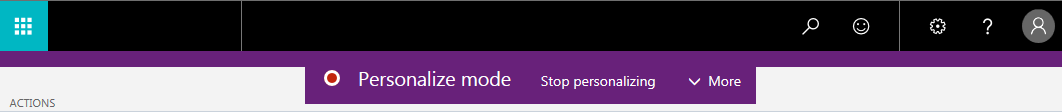
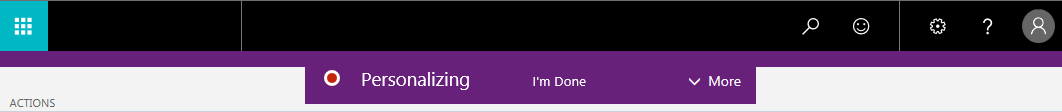
updated to latest

Changed region(s): [[0.3107, 0.6429, 0.6215, 0.8036]]

diff --git a/financials/ui-personalize-user-interface.md b/financials/ui-personalize-user-interface.md
@@ -26,16 +26,17 @@ Depending on the type of page and what it includes, you can:
 -   Change the freeze pane of columns in a list. 
 
     The freeze pane defines the columns that always appear in the list, even when you scroll horizontally.
--   Move and remove parts.
+-   Add, move, and remove cues (tiles).
+-   Move and remove entire parts.
 
-    Parts are typically larger areas on a page that contain elements such as another page, a chart, or cues (tiles).  
+    Parts are typically larger areas on a page that contain elements such as another page, a chart, or tiles.  
 
 ## Personalization in detail
-To help you better understand personalization, here are some important points.  
+To help you better understand personalization, here are some pointers.  
 -   When you make changes to a card page of record that you open from a list, the changes will take effect on all records that you open from that list. For example, let's say you open a specific customer from the Customers list page, and then personalize the page by adding a field. When you open other customers from the list, the field that you added will also be shown.
 -   Changes that you make will take effect on all your Role Centers. For example, if you make a change to the Customer list when the Role Center is set to Business Manager, you will also see the change in the Customer list when Role Center is set to Sales Order Processor. 
 -   Changes to a page in a part will take effect where ever the part is used.  
--   You cannot create new fields or columns on a page; you can only add fields that already exist in the database.
+-   You can only add fields, columns, or tiles from a predetirmend list based on the page. You cannot create new ones.
 
 <!--NAV
 
@@ -43,9 +44,9 @@ To help you better understand personalization, here are some important points.
 
 ## To personalize a page
 
-1. Choose the ![Settings](media/ui-experience/settings_icon_small.png "Settings icon for role center") icon, and then choose **Personalize**.
+1. In the upper-right corner, select the ![Settings](media/ui-experience/settings_icon_small.png "Settings icon for role center") icon, and then **Personalize**.
 
-    The **Personalize Mode** bar appears at the top to indicate that you can start making changes. 
+    The **Personalizing** bar appears at the top to indicate that you can start making changes. 
 
     ![Personalize mode](media/ui_personalize_mode.png "Personalize mode")
 
@@ -62,19 +63,19 @@ To help you better understand personalization, here are some important points.
 4.  Use this table to help make changes:
         <table>
         <tr><th>What do you want to do</td><th>How to do it</th></tr>
-        <tr><td>Move the component, like a field, column in list, or part</td><td> Drag it by the arrowhead to its new location. The target location is indicated by either a thick horizontal or vertical line.</td></tr>
+        <tr><td>Move the component, like a field, column in list, tile, or part</td><td> Point anywhere on component, and drag it to its new location. The location is indicated by either a thick horizontal or vertical line.</td></tr>
         <tr><td>Remove the component</td><td>Select the arrowhead, and choose <b>Remove</b>.</td></tr>
         <tr><td>Change the freeze pane in a list to another column</td><td>Select the arrowhead of the column that you want as the last column of the freeze pane, and then choose <b>Set Freeze Pane</b>.<br /></br>If you do not want a freeze pane, select the arrowhead for the current freeze pane column, and choose <b>Clear Freeze Pane</b>.</td></tr>
-        <tr><td>Add a field</td><td>In the <b>Personalize Mode</b> bar, choose <b>More</b>, and then choose <b>Field</b>.<br /></br>The <b>Add Field to Page</b> pane opens on the right that lists the fields that you can add to the page. Fields marked as <b>Placed</b> are already on the page. Fields marked as <b>Ready</b> are not currently on the page.<br /></br>To add a field, drag it from the pane to the location that you want it.</td></tr>
+        <tr><td>Add a field, column, or tile</td><td>In the <b>Personalizing</b> bar, choose <b>More</b>, and then choose <b>Field</b>.<br /></br>The <b>Add Field to Page</b> pane opens on the right that lists the fields that you can add to the page. Fields marked as <b>Placed</b> are already on the page. Fields marked as <b>Ready</b> are not currently on the page.<br /></br>To add a field, drag it from the pane to the location that you want it. The location is indicated by either a thick horizontal or vertical line.</td></tr>
         </table>
     
     > [!IMPORTANT]  
     >   You cannot make changes to a list if the list is shown as tiles. To change the view, choose the ![Show as list](media/ui_show_as_list_icon.png "Show as list arrow left") icon.
    
-5.  You can continue to make changes on the same page or move to another page. When you are done, in the **Personalize Mode** bar, choose **Stop personalizing** to save the changes and exit the **Personalize Mode**. 
+5.  You can continue to make changes on the same page or move to another page. Your changes are automatically saved as you make them. When you are done, in the **Personalizing** bar, choose **I'm Done**. 
 
-## To restore pages to their original layout
-At some point, you might want to undo all the personalization changes that you have made over time so that pages appear as they were originally designed. To do this, choose the ![Settings](media/ui-experience/settings_icon_small.png "Settings icon for role center") icon, **Personalize**, and then **Restore Defaults**.  
+## Undo personalization and restore a page to its original layout
+At some point, you might want to undo all the personalization changes that you have made over time to a page so that page looks like it originally. To do this, choose the ![Settings](media/ui-experience/settings_icon_small.png "Settings icon for role center") icon, **Personalize**, and then **Undo All**. You will not see the changes, until you close and open the page again.
 
 ## See Also
 [Working with [!INCLUDE[d365fin](includes/d365fin_md.md)]](ui-work-product.md)  
